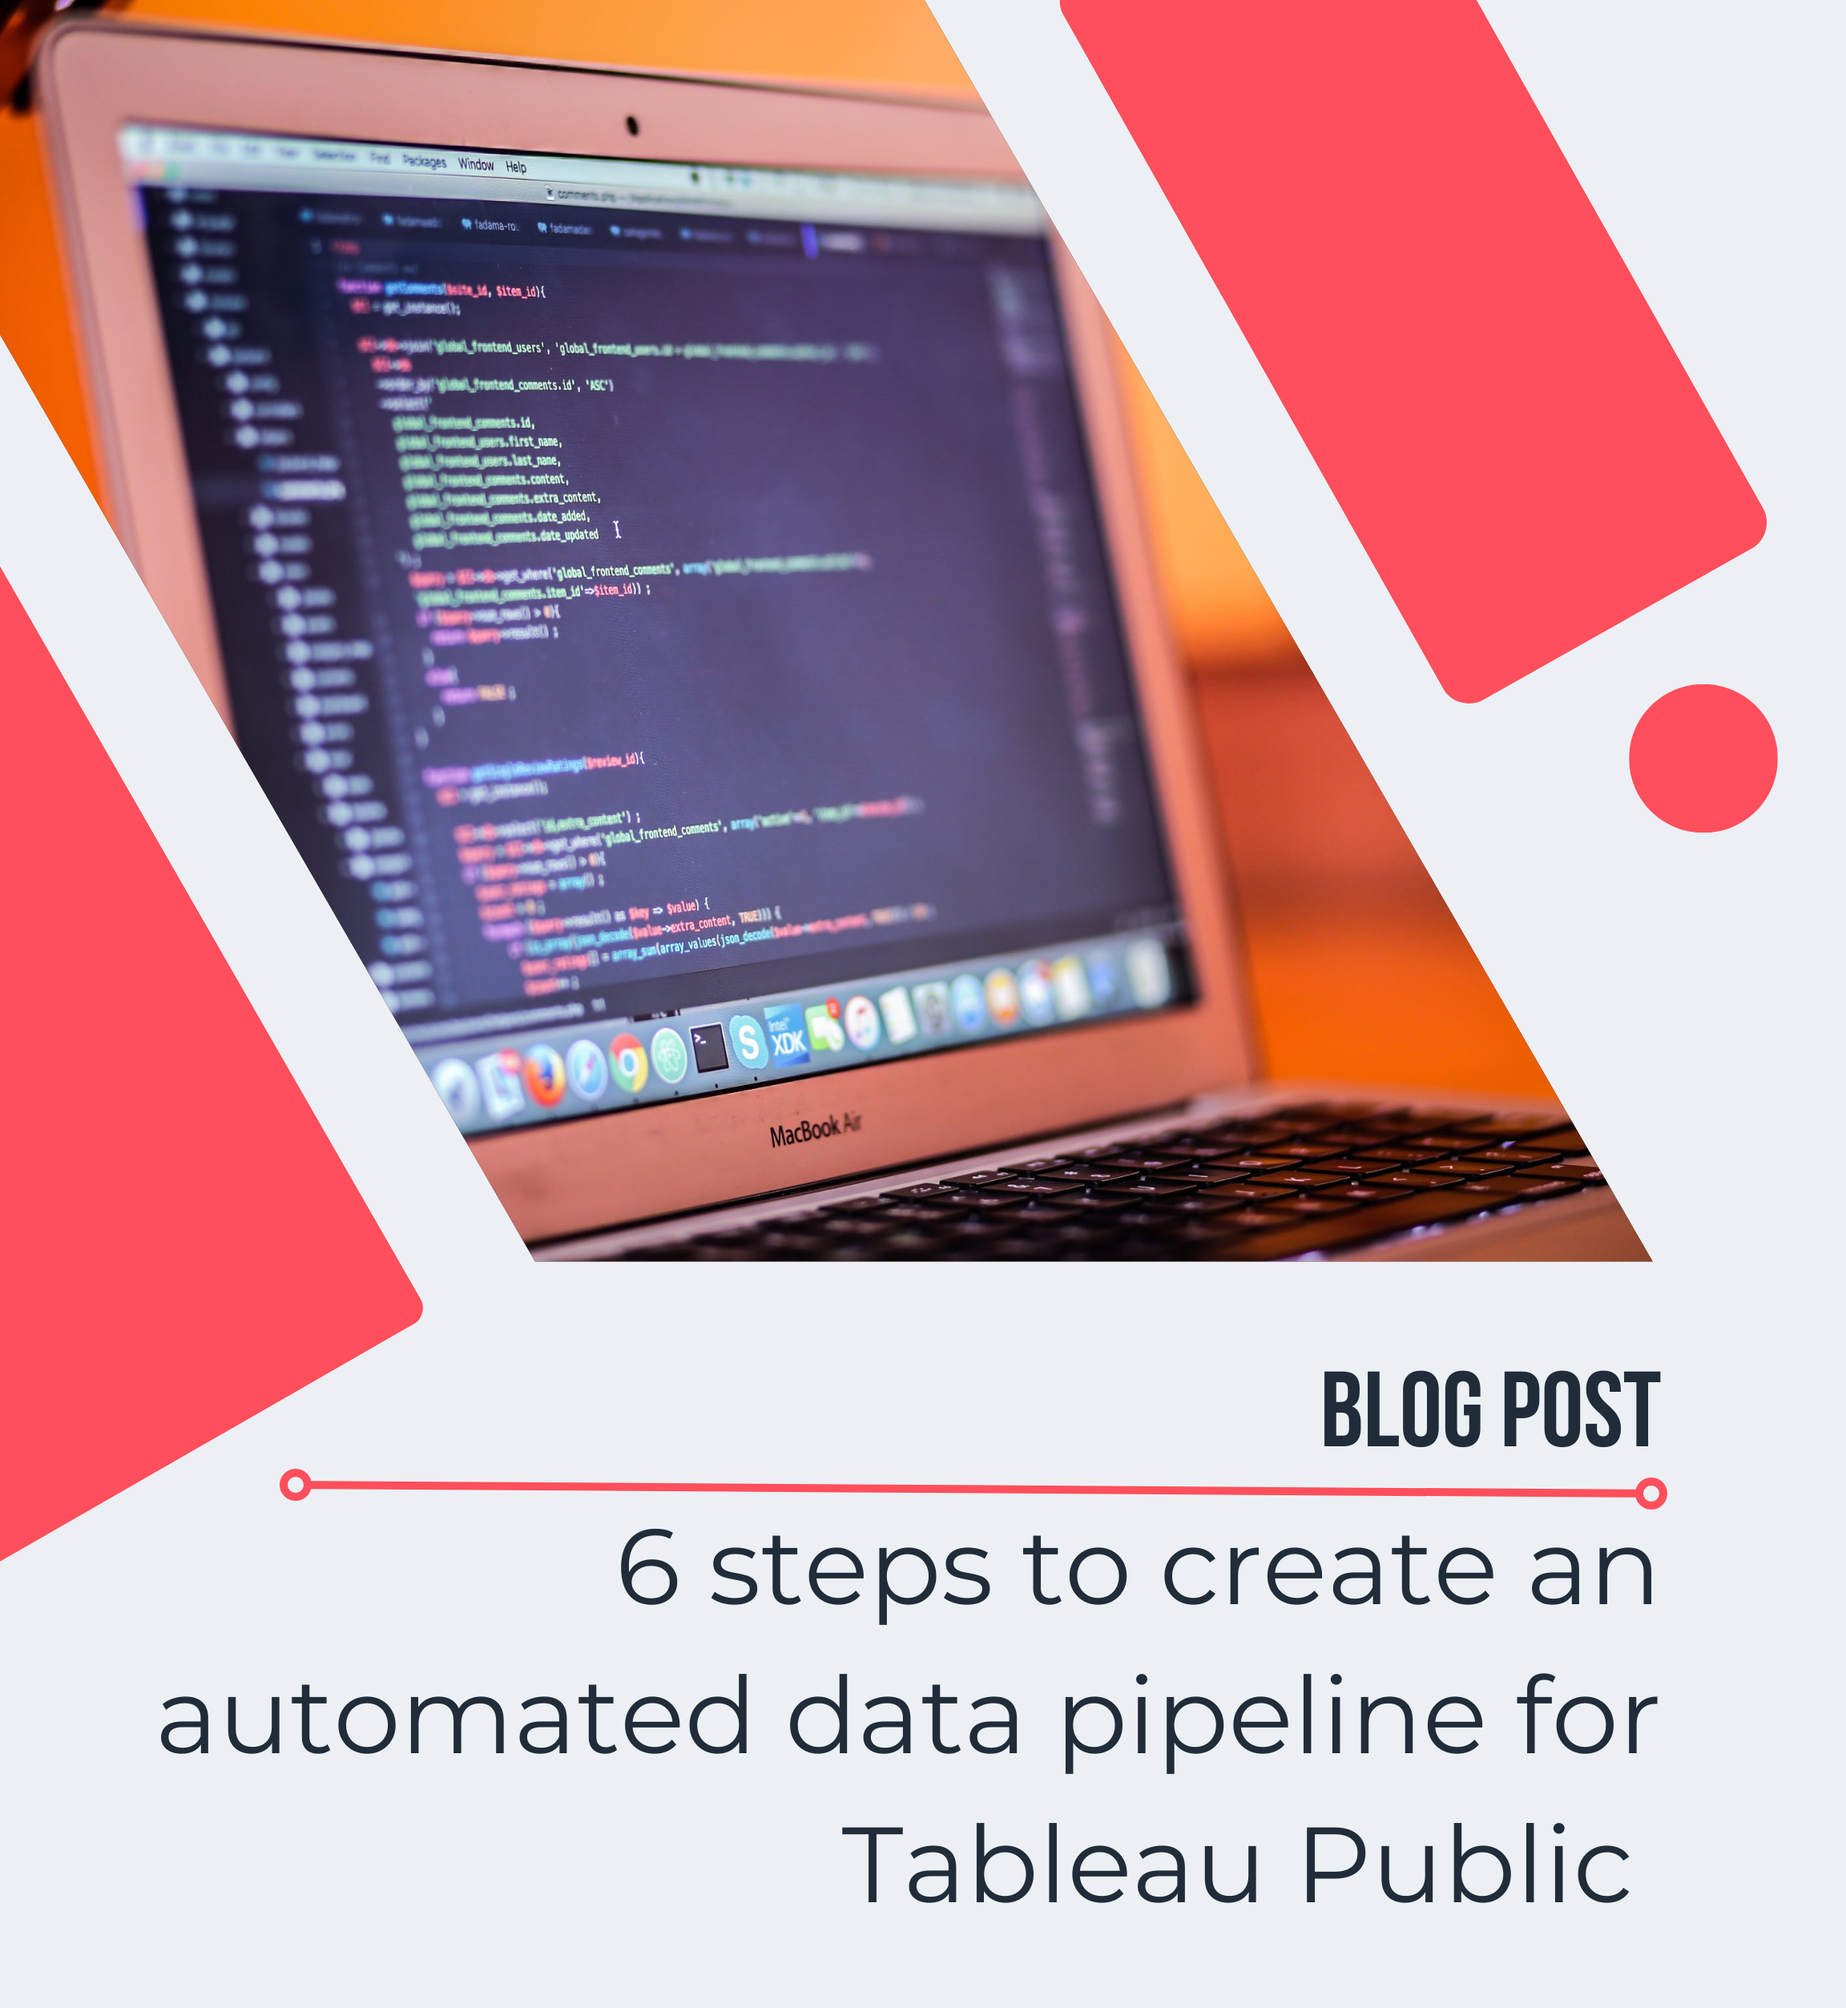
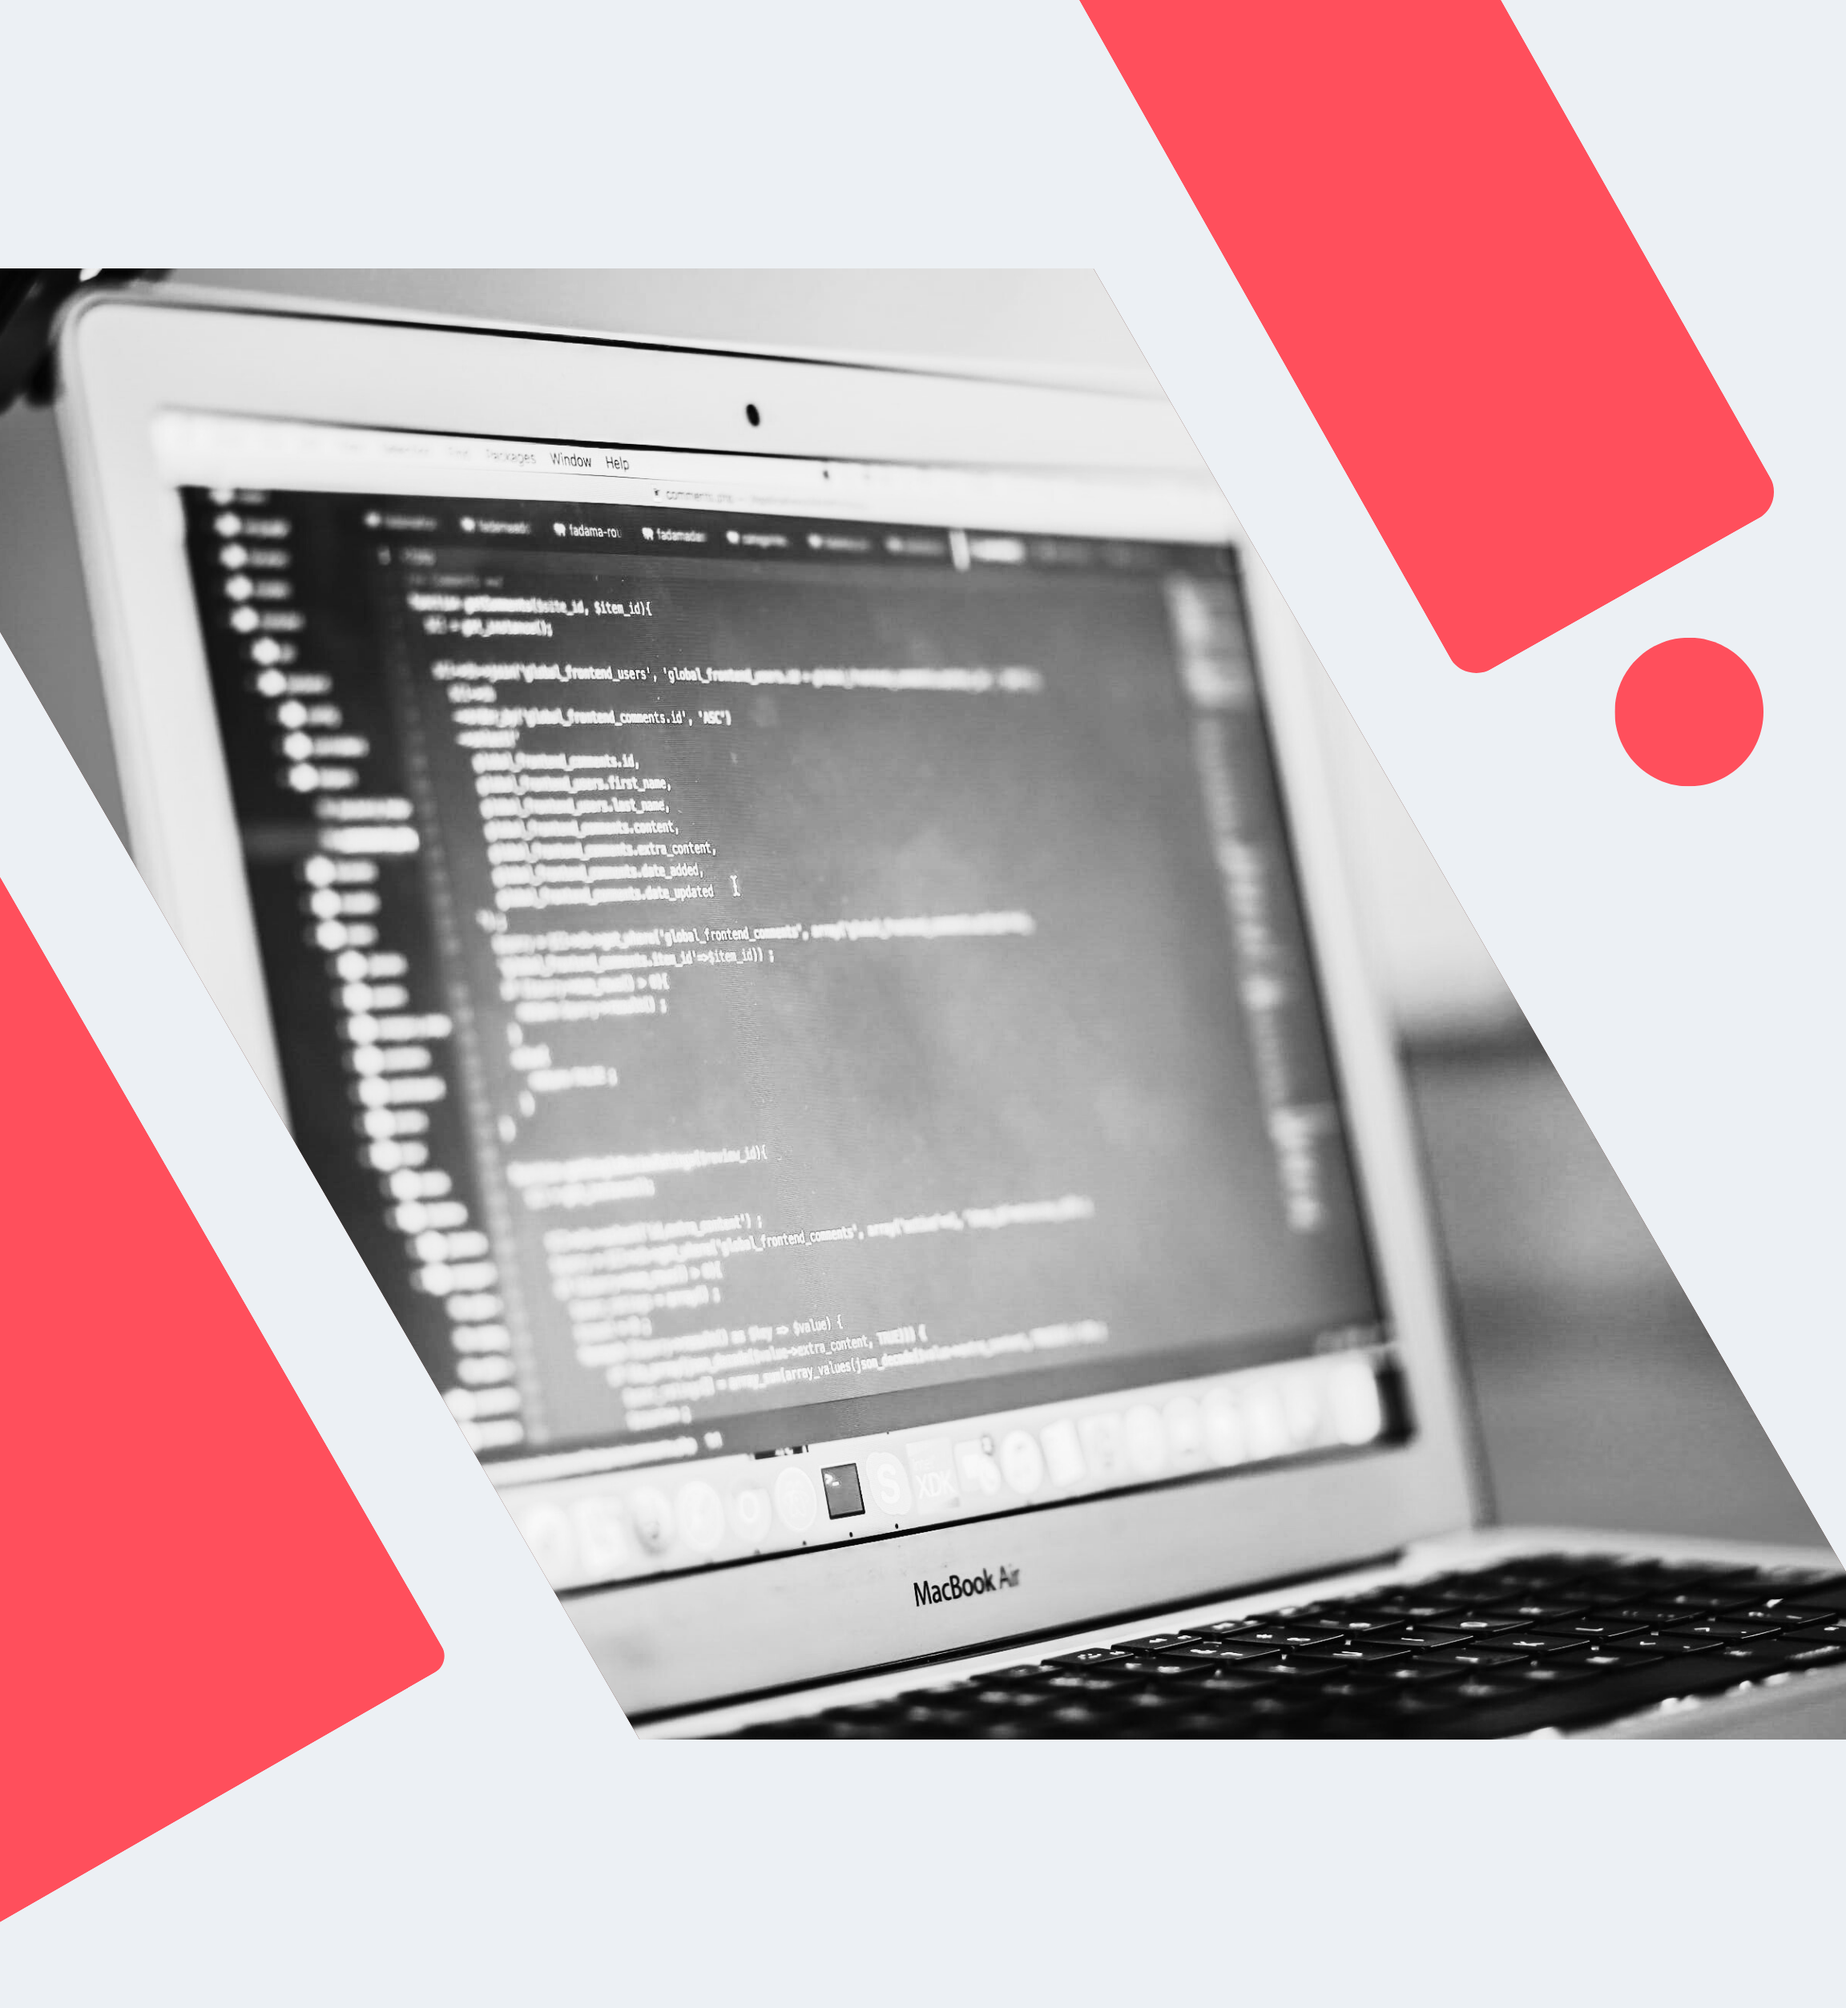
New blog posts

diff --git a/_projects/2023-08-05-farnham-food.md b/_projects/2023-08-05-farnham-food.md
@@ -1,0 +1,19 @@
+---
+title: 'Farnham Food Hygiene Ratings'
+subtitle: 'Infographic'
+date: 2023-08-05 00:00:00
+description: A visual to explore food hygiene standards in Farnham by business type.
+featured_image: '/images/projects/2023-08-05-farnham-food-hygiene/farnham-food-cover-canva.png'
+---
+
+## Food hygiene standards in Farnham
+
+A static infographic showing how food hygiene standards vary by business type in Farnham. The visual uses waffle charts to display proportions by categories.
+
+![](/images/projects/2023-08-05-farnham-food-hygiene/farnham-food-dash.png)
+
+## The story
+
+I wanted to practise exploring geographical data and discovered the [food ratings data](https://ratings.food.gov.uk) available from the UK [Food Standards Agency](https://www.food.gov.uk). I intend to work on some mapping analysis in due course, but for this first project I decided to explore food hygiene ratings across different business types in Farnham. It was my first time building a waffle chart, and I found [this article](https://www.vizwiz.com/2019/09/waffle-chart.html) by [Andy Kreibel](https://public.tableau.com/app/profile/andy.kriebel/#!/) very helpful in making this visual.
+
+<a href="https://public.tableau.com/shared/WT7HF8RNH?:display_count=n&:origin=viz_share_link" class="button button--large">Go to Dashboard</a>

diff --git a/_projects/2022-10-13-schools-2022.md b/_projects/2022-10-13-schools-2022.md
@@ -3,7 +3,7 @@ title: '2022 School Admissions'
 subtitle: 'Exploratory dashboard'
 date: 2022-10-13 00:00:00
 description: A dashboard that looks at admission rates and performance measures for primary and secondary schools in England, UK to help parents understand how school places are allocated.
-featured_image: '/images/projects/2022-10-13-school-admissions-2022/school-admissions-2022-cover-pinboard.png'
+featured_image: '/images/projects/2022-10-13-school-admissions-2022/school-admissions-2022-cover-canva.png'
 ---
 
 ## How were school places allocated in England in 2022?

diff --git a/_posts/2023-05-15-tableau-pipeline.md b/_posts/2023-05-15-tableau-pipeline.md
@@ -2,7 +2,7 @@
 title: '6 steps to create an automated data pipeline for Tableau Public'
 date: 2023-05-15 00:00:00
 description: Now you can automatically refresh source data in Tableau Public for free using R, Google Sheets and GitHub Actions.
-featured_image: '/images/blog/2023-05-15-tableau-pipeline/tableau-pipeline-cover.png'
+featured_image: '/images/blog/2023-05-15-tableau-pipeline/tableau-pipeline-cover-canva.png'
 ---
 
 ![](/images/blog/2023-05-15-tableau-pipeline/tableau-auto-dash.png)

diff --git a/_posts/2022-10-18-tableau-star-schema.md b/_posts/2022-10-18-tableau-star-schema.md
@@ -2,7 +2,7 @@
 title: 'Build a multi-fact star schema in Tableau in 5 easy steps'
 date: 2022-10-18 00:00:00
 description: Now you can apply dimensional data modelling techniques within Tableau.
-featured_image: '/images/blog/2022-10-18-tableau-star/tableau-star-cover.png'
+featured_image: '/images/blog/2022-10-18-tableau-star/tableau-star-cover-canva.png'
 ---
 
 ![Five different hands arranged in a star shape](/images/blog/2022-10-18-tableau-star/tableau-star-front.jpg)

diff --git a/_projects/2023-05-25-tesla.md b/_projects/2023-05-25-tesla.md
@@ -3,7 +3,7 @@ title: 'Tesla Inventory'
 subtitle: 'Dynamic interactive dashboard'
 date: 2023-05-25 00:00:00
 description: A dashboard to monitor inventory of used Tesla Model 3 vehicles in the UK, and generate a ranked shortlist according to your preferred criteria.
-featured_image: '/images/projects/2023-05-25-tesla/tesla-cover-pinboard.png'
+featured_image: '/images/projects/2023-05-25-tesla/tesla-cover-canva.png'
 ---
 
 ## Tesla Model 3 UK used vehicle inventory
